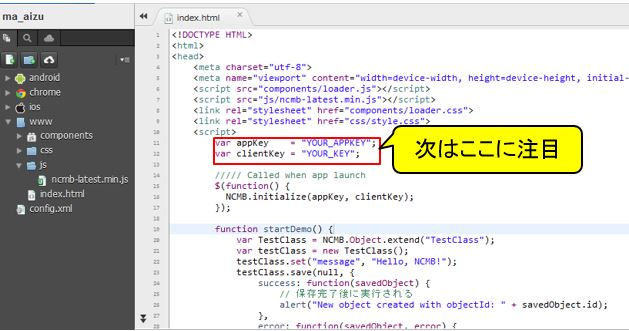
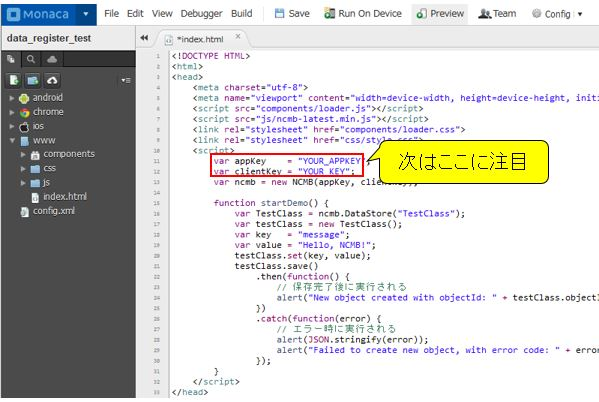
change README to fix code for js2.0.0

diff --git a/README.md b/README.md
@@ -25,8 +25,7 @@ mobile backendのダッシュボードの「TestClass」クラスを開くこと
 ## Requirement
 
 * Monaca環境
-* Nifty cloud mobile backend Javascript SDK version 1.2.6　ダウンロード：[Javascript SDK](http://mb.cloud.nifty.com/doc/1.2.6/introduction/sdkdownload_javascript.html?utm_source=community&utm_medium=referral&utm_campaign=sample_monaca_data_registration)
-* ※version 2.0.0はまだ準備中です。
+* Nifty cloud mobile backend Javascript SDK version 2.0.0　ダウンロード：[Javascript SDK](http://http://mb.cloud.nifty.com/doc/current/introduction/sdkdownload_javascript.html?utm_source=community&utm_medium=referral&utm_campaign=sample_monaca_data_registration)
 
 ## Installation
 
@@ -58,34 +57,29 @@ mobile backendのダッシュボードの「TestClass」クラスを開くこと
 * コードの説明
 
 ```JavaScript
-        var appKey    = "YOUR_APPKEY";
-        var clientKey = "YOUR_KEY";
+var appKey    = "YOUR_APPKEY";
+var clientKey = "YOUR_KEY";
+var ncmb = new NCMB(appKey, clientKey);
 
-        ///// Called when app launch
-        $(function() {
-          NCMB.initialize(appKey, clientKey);
+function startDemo() {
+    var TestClass = ncmb.DataStore("TestClass");
+    var testClass = new TestClass();
+    var key   = "message";
+    var value = "Hello, NCMB!";
+    testClass.set(key, value);
+    testClass.save()
+        .then(function() {
+            // 保存完了後に実行される
+            alert("New object created with objectId: " + testClass.objectId);
+        })
+        .catch(function(error) {
+            // エラー時に実行される
+            alert("Failed to create new object, with error code: " + error.text);
         });
-
-        function startDemo() {
-            var TestClass = NCMB.Object.extend("TestClass");
-            var testClass = new TestClass();
-            var key   = "message";
-            var value = "Hello, NCMB!";
-            testClass.set(key, value);
-            testClass.save(null, {
-                success: function(savedObject) {
-                    // 保存完了後に実行される
-                    alert("New object created with objectId: " + savedObject.id);
-                },
-                error: function(savedObject, error) {
-                    // エラー時に実行される
-                    alert("Failed to create new object, with error code: " + error.message);
-                }
-            });   
-        }()
+}
 ```
 上記のコードでアプリケーションキーとクライアントキーを指定し、
-NCMB.initialize(appKey, clientKey)　でmBaaSサーバと連携を行います。
+NCMB(appKey, clientKey)　でmBaaSサーバと連携を行います。
 
 "TestClass"という名前を設定してデータクラスを指定したあと、
 testClassオブジェクトを利用して、データを操作できます。
